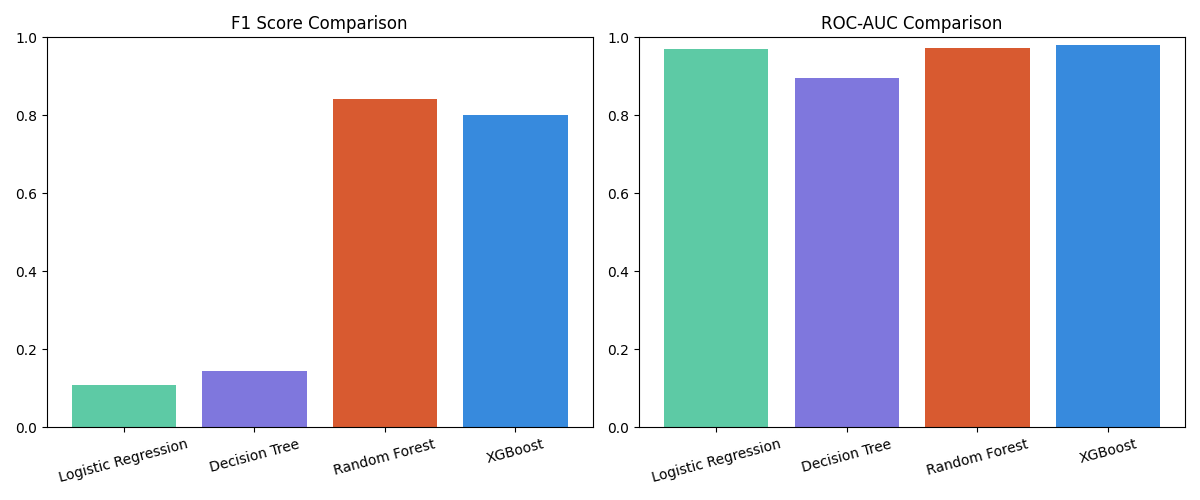
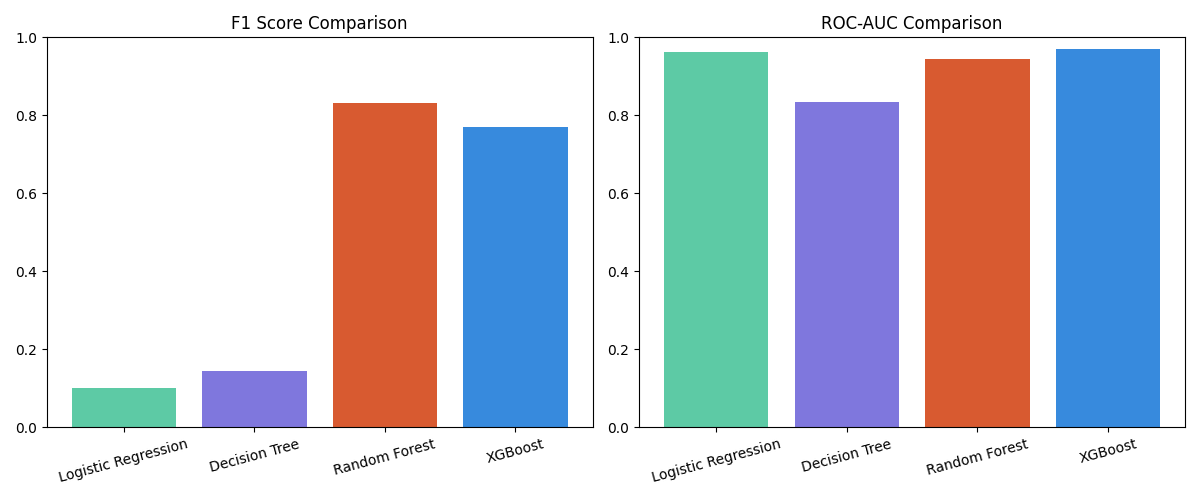
finding an isssue in this project

diff --git a/pipeline/data_pipeline.py b/pipeline/data_pipeline.py
@@ -1,201 +1,80 @@
-import os
 import pandas as pd
 import numpy as np
 from sklearn.preprocessing import StandardScaler
 from sklearn.model_selection import train_test_split
 from imblearn.over_sampling import SMOTE
 import joblib
+import os
 
-# Resolve paths relative to this script's location, not current working directory
-BASE_DIR = os.path.dirname(os.path.abspath(__file__))
-RAW_DATA_PATH = os.path.join(BASE_DIR, "..", "data", "creditcard.csv")
-OUTPUT_DIR = os.path.join(BASE_DIR, "..", "data", "processed")
-SCALER_PATH = os.path.join(BASE_DIR, "..", "models", "scaler.pkl")
-RANDOM_STATE = 42
-TEST_SIZE = 0.2
-
-
-def load_data(path: str) -> pd.DataFrame:
-
-    print(f"\n[1/6] Loading data from: {path}")
+def load_data(path="data/creditcard.csv"):
     df = pd.read_csv(path)
-
-    print(f"      Shape        : {df.shape}")
-    print(f"      Columns      : {list(df.columns)}")
-    print(f"      Memory usage : {df.memory_usage(deep=True).sum() / 1e6:.1f} MB")
+    print(f"Dataset shape: {df.shape}")
+    print(f"Fraud cases: {df['Class'].sum()} ({df['Class'].mean()*100:.2f}%)")
     return df
 
+def clean_data(df):
+    missing = df.isnull().sum()
+    if missing.any():
+        print(f"Missing values found:\n{missing[missing > 0]}")
+        df = df.dropna()
+    else:
+        print("No missing values found")
 
-def explore_data(df: pd.DataFrame) -> None:
-
-    print("\n[2/6] Exploring data...")
-
-
-    counts = df["Class"].value_counts()
-    fraud_pct = counts[1] / len(df) * 100
-
-    print(f"      Legit txns   : {counts[0]:,}")
-    print(f"      Fraud txns   : {counts[1]:,}")
-    print(f"      Fraud rate   : {fraud_pct:.4f}%  ← severe imbalance")
-
-    missing = df.isnull().sum().sum()
-    print(f"      Missing vals : {missing}")
-
-    # Amount stats
-    print(f"      Amount range : ${df['Amount'].min():.2f} – ${df['Amount'].max():.2f}")
-    print(f"      Amount mean  : ${df['Amount'].mean():.2f}")
-
-
-# ─────────────────────────────────────────
-# STEP 3 — Handle Missing Values
-# ─────────────────────────────────────────
-def handle_missing(df: pd.DataFrame) -> pd.DataFrame:
-    """
-    Strategy:
-      - Numeric columns  → fill with median (robust to outliers)
-      - Drop rows where the target 'Class' is missing
-    """
-    print("\n[3/6] Handling missing values...")
     before = len(df)
-
-    # Drop rows where label is missing — no label = useless row
-    df = df.dropna(subset=["Class"])
-
-    # Fill numeric nulls with column median
-    numeric_cols = df.select_dtypes(include=[np.number]).columns.tolist()
-    for col in numeric_cols:
-        if df[col].isnull().any():
-            median_val = df[col].median()
-            df[col] = df[col].fillna(median_val)
-            print(f"Filled '{col}' nulls with median={median_val:.4f}")
-
-    after = len(df)
-    print(f"Rows before: {before:,}")
-    print(f"Rows after: {after:,}")
+    df = df.drop_duplicates()
+    print(f"Duplicates removed: {before - len(df)}")
     return df
 
-
-# ─────────────────────────────────────────
-# STEP 4 — Feature Scaling
-# ─────────────────────────────────────────
-def scale_features(df: pd.DataFrame, save_scaler: bool = True) -> pd.DataFrame:
-    """
-    'Amount' and 'Time' are raw — V1-V28 are already PCA-scaled.
-    We StandardScale Amount and Time so all features are on the same range.
-    The scaler is saved as a .pkl — the API will load this same scaler at prediction time.
-    """
-    print("\n[4/6] Scaling features (Amount, Time)...")
-
+def engineer_features(df):
+    # ONE scaler for both Amount and Time together
     scaler = StandardScaler()
-    df["Amount"] = scaler.fit_transform(df[["Amount"]])
-    df["Time"]   = scaler.fit_transform(df[["Time"]])
+    df[["Amount_scaled", "Time_scaled"]] = scaler.fit_transform(df[["Amount", "Time"]])
 
-    # Drop original unscaled (already replaced above)
-    print(f"      Amount scaled: mean={df['Amount'].mean():.4f}, std={df['Amount'].std():.4f}")
-    print(f"      Time   scaled: mean={df['Time'].mean():.4f}, std={df['Time'].std():.4f}")
+    # Drop original columns
+    df = df.drop(columns=["Amount", "Time"])
+    return df, scaler
 
-    if save_scaler:
-        os.makedirs(os.path.dirname(SCALER_PATH), exist_ok=True)
-        joblib.dump(scaler, SCALER_PATH)
-        print(f"      Scaler saved : {SCALER_PATH}")
-
-    return df
-
-
-# ─────────────────────────────────────────
-# STEP 5 — Train / Test Split
-# ─────────────────────────────────────────
-def split_data(df: pd.DataFrame):
-    """
-    Split BEFORE applying SMOTE.
-    Important: SMOTE should only be applied to training data —
-    never to the test set (that would leak synthetic data into evaluation).
-    """
-    print("\n[5/6] Splitting into train / test sets...")
-
+def split_data(df):
     X = df.drop(columns=["Class"])
     y = df["Class"]
 
     X_train, X_test, y_train, y_test = train_test_split(
         X, y,
-        test_size=TEST_SIZE,
-        random_state=RANDOM_STATE,
-        stratify=y           # preserves fraud ratio in both splits
+        test_size=0.2,
+        random_state=42,
+        stratify=y
     )
 
-    print(f"      X_train : {X_train.shape}")
-    print(f"      X_test  : {X_test.shape}")
-    print(f"      Fraud in train : {y_train.sum()} ({y_train.mean()*100:.3f}%)")
-    print(f"      Fraud in test  : {y_test.sum()} ({y_test.mean()*100:.3f}%)")
-
+    print(f"Train size: {X_train.shape}, Test size: {X_test.shape}")
+    print(f"Fraud in train: {y_train.sum()}, Fraud in test: {y_test.sum()}")
     return X_train, X_test, y_train, y_test
 
-
-# ─────────────────────────────────────────
-# STEP 6 — Handle Class Imbalance (SMOTE)
-# ─────────────────────────────────────────
 def apply_smote(X_train, y_train):
-    """
-    SMOTE (Synthetic Minority Over-sampling Technique):
-    Generates synthetic fraud samples so the model sees a balanced dataset.
-    Applied ONLY on train set — test set stays real and untouched.
-    """
-    print("\n[6/6] Applying SMOTE to training set...")
-    print(f"      Before — Legit: {(y_train==0).sum():,}  Fraud: {(y_train==1).sum():,}")
-
-    smote = SMOTE(random_state=RANDOM_STATE)
-    X_resampled, y_resampled = smote.fit_resample(X_train, y_train.values.ravel())
-
-    print(f"      After  — Legit: {(y_resampled==0).sum():,}  Fraud: {(y_resampled==1).sum():,}")
-    print(f"      Total training samples: {len(X_resampled):,}")
-
+    print(f"Before SMOTE — Legit: {(y_train==0).sum()}, Fraud: {(y_train==1).sum()}")
+    smote = SMOTE(random_state=42)
+    X_resampled, y_resampled = smote.fit_resample(X_train, y_train)
+    print(f"After SMOTE  — Legit: {(y_resampled==0).sum()}, Fraud: {(y_resampled==1).sum()}")
     return X_resampled, y_resampled
 
+def save_artifacts(scaler, feature_cols):
+    os.makedirs("models", exist_ok=True)
 
-# ─────────────────────────────────────────
-# STEP 7 — Save Processed Data
-# ─────────────────────────────────────────
-def save_processed(X_train, X_test, y_train, y_test) -> None:
-    """Save train/test splits as CSV for use in model training step."""
-    os.makedirs(OUTPUT_DIR, exist_ok=True)
+    joblib.dump(scaler, "models/scaler.pkl")
+    joblib.dump(feature_cols, "models/feature_cols.pkl")
 
-    train_df = pd.DataFrame(X_train)
-    train_df["Class"] = y_train
+    print(f"Scaler saved → models/scaler.pkl")
+    print(f"Feature cols saved → models/feature_cols.pkl")
+    print(f"Features: {feature_cols}")
 
-    test_df = pd.DataFrame(X_test)
-    test_df["Class"] = y_test
-
-    train_path = os.path.join(OUTPUT_DIR, "train.csv")
-    test_path  = os.path.join(OUTPUT_DIR, "test.csv")
-
-    train_df.to_csv(train_path, index=False)
-    test_df.to_csv(test_path,   index=False)
-
-    print(f"\n      Saved train → {train_path}  ({len(train_df):,} rows)")
-    print(f"      Saved test  → {test_path}   ({len(test_df):,} rows)")
-
-
-# ─────────────────────────────────────────
-# MAIN — Run full pipeline
-# ─────────────────────────────────────────
 def run_pipeline():
-    print("=" * 50)
-    print("  FRAUD DETECTION — DATA PIPELINE")
-    print("=" * 50)
+    df = load_data()
+    df = clean_data(df)
+    df, scaler = engineer_features(df)
 
-    df = load_data(RAW_DATA_PATH)
-    explore_data(df)
-    df = handle_missing(df)
-    df = scale_features(df)
     X_train, X_test, y_train, y_test = split_data(df)
-    X_train, y_train = apply_smote(X_train, y_train)
-    save_processed(X_train, X_test, y_train, y_test)
+    X_train_bal, y_train_bal = apply_smote(X_train, y_train)
 
-    print("\n  Pipeline complete. Ready for model training.")
-    print("=" * 50)
+    # Save scaler + feature column names
+    save_artifacts(scaler, list(X_train.columns))
 
-    return X_train, X_test, y_train, y_test
-
-
-if __name__ == "__main__":
-    run_pipeline()
+    return X_train_bal, X_test, y_train_bal, y_test

diff --git a/api/predictor.py b/api/predictor.py
@@ -62,15 +62,15 @@ def get_agreement(predictions: list) -> str:
     
 
 def preprocess_input(data: dict) -> pd.DataFrame:
-
     df = pd.DataFrame([data])
 
-    # Scale Amount and Time exactly like training
-    df["Amount_scaled"] = scaler.transform(df[["Amount"]])
-    df["Time_scaled"] = scaler.transform(df[["Time"]])
+    # Scale Amount and Time together — same as training
+    df[["Amount_scaled", "Time_scaled"]] = scaler.transform(df[["Amount", "Time"]])
+
+    # Drop original columns
     df = df.drop(columns=["Amount", "Time"])
 
-    # Ensure column order matches training
+    # Match exact column order from training
     df = df[feature_cols]
 
     return df

diff --git a/api/schemas.py b/api/schemas.py
@@ -2,7 +2,7 @@ from pydantic import BaseModel, validator
 from typing import Optional
 
 
-class trasationScript(BaseModel):
+class TransactionInput(BaseModel):
     Time: float
     Amount: float
     V1: float

diff --git a/api/main.py b/api/main.py
@@ -1,5 +1,6 @@
 from fastapi import FastAPI, HTTPException
 from fastapi.middleware.cors import CORSMiddleware
+
 from api.schemas import TransactionInput, EnsembleResponse
 from api.predictor import run_ensemble
 from api.logger import init_logger, log_prediction